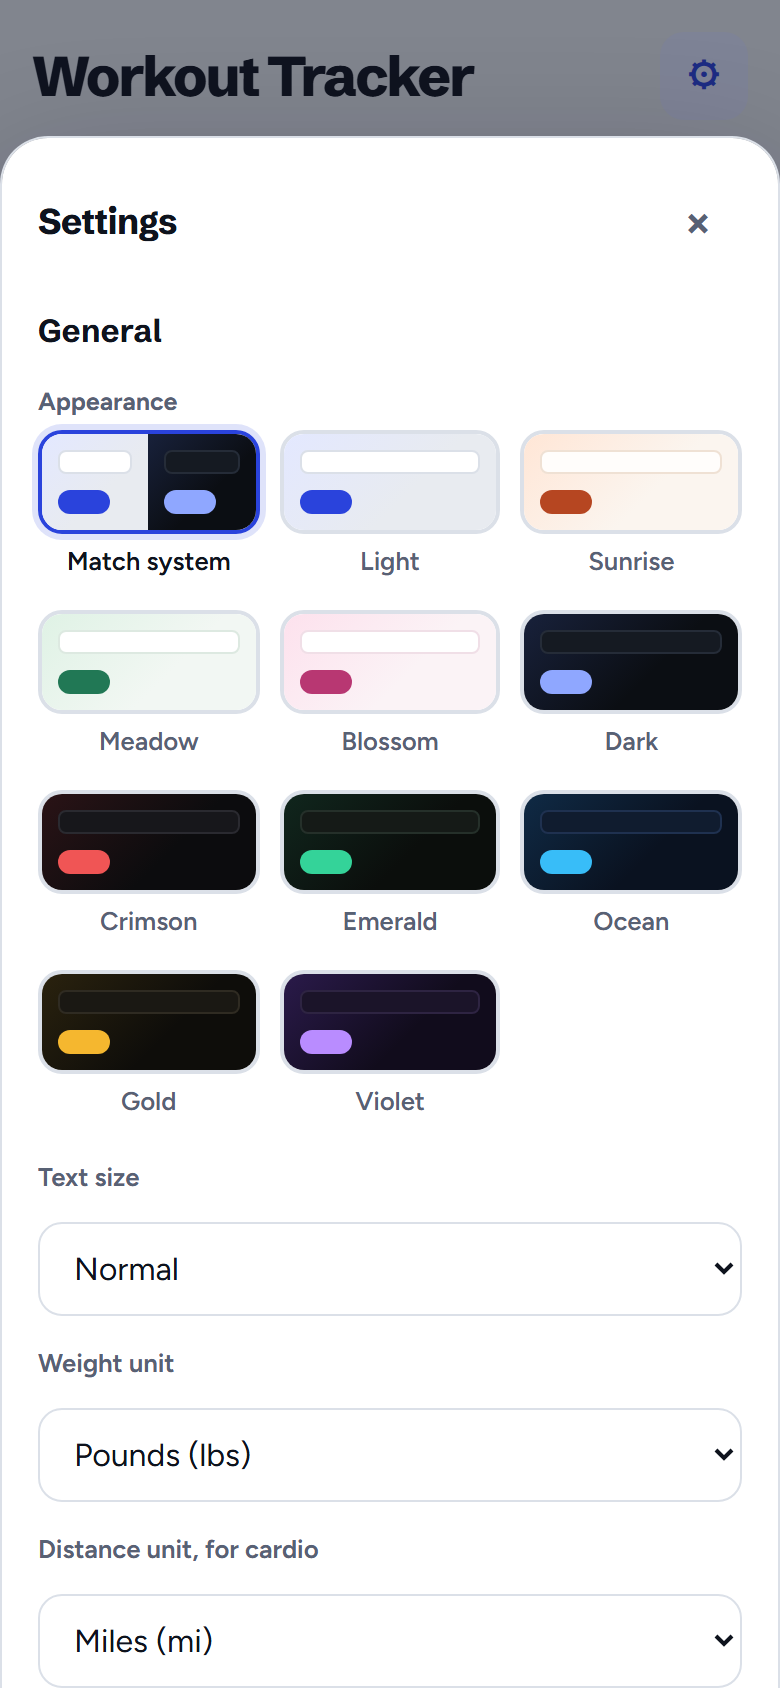
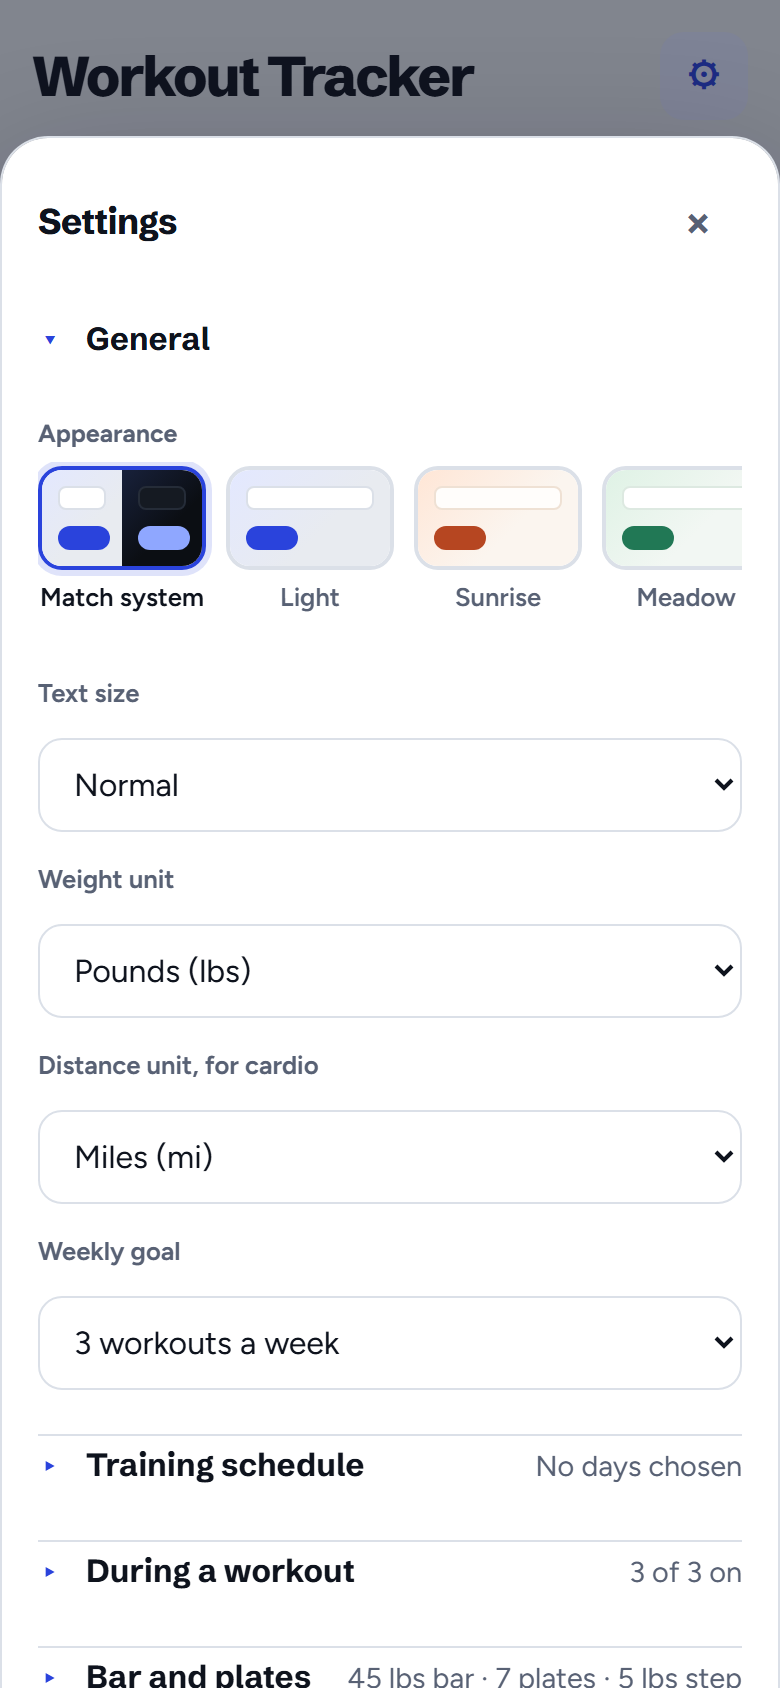
Fold Settings into sections that say their values, and put the themes in one scrolling row
Settings was one column of about 2,200 px on a phone, with what is changed mid-month (units,
the rest alert) beside what is set once (plates, the account, the data).

Each section is now a row that folds open, with its heading and at the right the values it
holds in a line ("Dark - lbs - mi - 3 a week", "Mon, Wed, Fri - 5:00 PM", "3 of 3 on", "45 lbs
bar - 7 plates - 5 lbs step", "90 s - starts itself - Double beep"), which it stops saying once
it is open. General is open with the dialog, since it holds what is changed most and is where
the focus goes; the others are folded. The lines are written from the settings each time they
are applied, by a summary on each section of the table (settings-fields.js), so a section added
to the table has its own; Your data and Account, which the dialog writes out itself, are rows
too, and opening an account panel opens the Account row.

The ten themes were four rows of a grid. They are one row that scrolls sideways, the chosen one
in view.

Tests: settings_table checks each section is a row (General open, the rest folded) and that the
lines are the settings; the Progress rows check is scoped to the page's own rows, since the
dialog's are rows too. The folds reuse Progress's (.fold-summary and the rest). Docs and the
Settings screenshot updated.

diff --git a/frontend/settings-fields.js b/frontend/settings-fields.js
@@ -73,7 +73,7 @@ const themeSwatches = Object.keys(themeNames).map(id => {
 
 const themeSetting = {
   defaults:{ theme:themeChoices.includes(legacyTheme) ? legacyTheme : 'system' },
-  html:() => `<fieldset class="theme-picker" id="themeSetting"><legend>Appearance</legend>${themeSwatches}</fieldset>`,
+  html:() => `<fieldset class="theme-picker" id="themeSetting"><legend>Appearance</legend><div class="theme-row">${themeSwatches}</div></fieldset>`,
   show(settings) {
     // theme.js, in <head>, applies it and follows the device. A page from before theme.js existed (served from the
     // cache for one load after an update) lacks it, and just gets light or dark.
@@ -134,7 +134,8 @@ function weeklyGoalFrom(value) {
 // ---- The training schedule ---------------------------------------------------------------
 
 // Training days, Monday first as the calendar has them, by the number the browser gives each (Sunday is 0).
-const trainingDayChoices = [[1, 'Mon', 'Monday'], [2, 'Tue', 'Tuesday'], [3, 'Wed', 'Wednesday'], [4, 'Thu', 'Thursday'], [5, 'Fri', 'Friday'], [6, 'Sat', 'Saturday'], [0, 'Sun', 'Sunday']]
+const trainingDays = [[1, 'Mon', 'Monday'], [2, 'Tue', 'Tuesday'], [3, 'Wed', 'Wednesday'], [4, 'Thu', 'Thursday'], [5, 'Fri', 'Friday'], [6, 'Sat', 'Saturday'], [0, 'Sun', 'Sunday']];
+const trainingDayChoices = trainingDays
   .map(([value, short, name]) => `<label class="weekday"><input type="checkbox" value="${value}" aria-label="${name}" /><span aria-hidden="true">${short}</span></label>`).join('');
 
 // The days of the week the lifter trains (as the browser numbers them, Sunday 0) and the time of day to remind them, from
@@ -242,16 +243,43 @@ const equipmentSetting = {
 // The alert sounds and their names. Each needs tones of the same name in alertTones (settings.js), which makes them.
 const alertSoundOptions = [['beep', 'Double beep'], ['chime', 'Chime'], ['long', 'Long tone']];
 
+// What each section says of itself while it is folded, in a line, from the settings it holds: the values that are set, so they are
+// read without opening it (applySettings, in settings.js, writes each one). A time is written as the device writes one.
+const clockText = time => {
+  const [hour, minute] = time.split(':').map(Number);
+  return new Date(2000, 0, 1, hour, minute).toLocaleTimeString(undefined, { hour:'numeric', minute:'2-digit' });
+};
+
 const settingSections = [
-  { title:'General', fields:[
+  // General is open when the dialog is, since it holds what is changed most and where the focus goes.
+  { id:'general', title:'General', open:true,
+    summary:settings => [
+      themeNames[themeChoices.includes(settings.theme) ? settings.theme : 'system'],
+      settings.unit === 'kg' ? 'kg' : 'lbs',
+      distanceUnitOf(settings),
+      `${weeklyGoalFrom(settings.weeklyGoal)} a week`,
+      ...(textSizeFrom(settings.textSize) === 'normal' ? [] : [`${textSizeChoices.find(([size]) => size === textSizeFrom(settings.textSize))[1]} text`])
+    ].join(' · '),
+    fields:[
     themeSetting,
     textSizeSetting,
     choiceSetting('unit', 'unitSetting', 'Weight unit', [['lbs', 'Pounds (lbs)'], ['kg', 'Kilograms (kg)']], value => value === 'kg' ? 'kg' : 'lbs', 'lbs'),
     distanceSetting,
     choiceSetting('weeklyGoal', 'weeklyGoalSetting', 'Weekly goal', [1, 2, 3, 4, 5, 6, 7].map(goal => [goal, `${goal} workout${goal === 1 ? '' : 's'} a week`]), weeklyGoalFrom, 3)
   ] },
-  { title:'Training schedule', fields:[scheduleSetting] },
-  { title:'During a workout', fields:[
+  { id:'schedule', title:'Training schedule',
+    summary:settings => {
+      const { days, time } = scheduleFrom(settings);
+      return days.length ? `${trainingDays.filter(([value]) => days.includes(value)).map(([, short]) => short).join(', ')} · ${clockText(time)}` : 'No days chosen';
+    },
+    fields:[scheduleSetting] },
+  { id:'workout', title:'During a workout',
+    // How many of the options that this browser has are on.
+    summary:settings => {
+      const keys = ['confirmEnd', 'trackEffort', 'warmupSets', ...('wakeLock' in navigator ? [] : ['keepAwakeVideo'])];
+      return `${keys.filter(key => settings[key] !== false).length} of ${keys.length} on`;
+    },
+    fields:[
     checkSetting('confirmEnd', 'confirmEndSetting', 'Ask before cancelling a workout with sets logged'),
     checkSetting('trackEffort', 'effortSetting', 'Ask how many reps each set had left (effort)'),
     checkSetting('warmupSets', 'warmupSetting', 'Suggest warm-up sets for barbell lifts'),
@@ -259,8 +287,19 @@ const settingSections = [
     checkSetting('keepAwakeVideo', 'keepAwakeSetting', 'Keep the screen on with a silent video, as this browser will not do it itself',
       { row:'keepAwakeSettingRow', available:() => !('wakeLock' in navigator) })
   ] },
-  { title:'Bar and plates', fields:[equipmentSetting] },
-  { title:'Rest timer', fields:[
+  { id:'equipment', title:'Bar and plates',
+    summary:settings => {
+      const gym = gymEquipment(settings);
+      return `${formatWeight(gym.bar)} ${gym.unit} bar · ${plural(gym.plates.length, 'plate')} · ${formatWeight(gym.step)} ${gym.unit} step`;
+    },
+    fields:[equipmentSetting] },
+  { id:'rest', title:'Rest timer',
+    summary:settings => {
+      const sound = alertSoundOptions.find(([name]) => name === settings.alertSound) || alertSoundOptions[0];
+      return [`${Number(settings.restDuration) || defaultSettings.restDuration} s`, settings.autoRest === false ? 'starts on tap' : 'starts itself',
+        settings.soundEnabled === false ? 'no sound' : sound[1]].join(' · ');
+    },
+    fields:[
     rangeSetting('restDuration', 'restDurationSetting', 'Default rest duration (seconds)', 'type="number" inputmode="numeric" min="15" max="600" step="15"',
       { least:15, most:600, blank:90, defaultValue:90 }),
     checkSetting('autoRest', 'autoRestSetting', 'Start the rest timer automatically after each set'),

diff --git a/frontend/styles.css b/frontend/styles.css
@@ -414,12 +414,13 @@ html[data-theme="dark"] .program-status.missed { color:#ff9eaa; }
 .settings-heading h2 { margin:0; }
 .modal-close { flex:none; width:44px; height:44px; padding:0; color:var(--muted); background:transparent; font-size:1.5rem; line-height:1; }
 .settings-modal form { display:grid; gap:8px; }
-.settings-modal form > label:not(.setting-check) { margin-top:8px; }
+.settings-modal .fold-body > label:not(.setting-check) { margin-top:8px; }
 /* Appearance: a swatch for each theme, its preview drawn in the theme's own colours (a data-palette of its own), the
    name in the page's. The radio itself is invisible but still takes the focus and the arrow keys. */
-.theme-picker { display:grid; grid-template-columns:repeat(auto-fill,minmax(86px,1fr)); gap:10px; margin:8px 0 0; padding:0; border:0; }
+.theme-picker { min-width:0; margin:8px 0 0; padding:0; border:0; }
+.theme-row { display:flex; gap:10px; padding:2px 2px 10px; overflow-x:auto; scroll-snap-type:x proximity; scrollbar-width:thin; }
 .theme-picker legend { margin:0 0 7px; padding:0; color:var(--muted); font-size:.78rem; font-weight:700; }
-.theme-swatch { position:relative; display:grid; gap:6px; color:var(--muted); font-size:.8rem; font-weight:600; text-align:center; cursor:pointer; }
+.theme-swatch { position:relative; display:grid; flex:0 0 84px; gap:6px; scroll-snap-align:start; color:var(--muted); font-size:.8rem; font-weight:600; text-align:center; cursor:pointer; }
 .theme-swatch input { position:absolute; width:1px; height:1px; margin:0; opacity:0; }
 .theme-preview { display:flex; height:52px; overflow:hidden; border:2px solid var(--line); border-radius:12px; }
 .theme-preview > span { position:relative; flex:1; background:linear-gradient(135deg,var(--glow),var(--bg) 60%); }
@@ -431,13 +432,18 @@ html[data-theme="dark"] .program-status.missed { color:#ff9eaa; }
 .setting-check { display:flex; align-items:flex-start; gap:9px; margin-top:12px; padding:12px 0; color:var(--muted); font-size:.9rem; line-height:1.4; }
 .setting-check input { width:auto; margin:2px 0 0; }
 input[type="range"] { padding:0; border:0; background:transparent; accent-color:var(--accent); }
-.settings-modal form > .test-alert { justify-self:start; margin-top:10px; }
+.settings-modal .fold-body > .test-alert { justify-self:start; margin-top:10px; }
 .settings-modal :disabled { opacity:.5; cursor:not-allowed; }
 .settings-actions { display:flex; justify-content:flex-end; align-items:center; gap:10px; margin-top:20px; padding-top:18px; border-top:1px solid var(--line); }
-/* Settings in sections, each under a heading with a line above it. */
-.settings-modal form > .settings-section { margin:18px 0 2px; padding-top:16px; border-top:1px solid var(--line); font-size:1rem; }
-.settings-modal form > .settings-section:first-child { margin-top:0; padding-top:0; border-top:0; }
-.settings-section + .data-section, .settings-section + .account-row { margin-top:0; padding-top:0; border-top:0; }
+/* Settings in sections that fold open, each a row with a line above it: its heading, and at the right the values it holds (what
+   the table's summary says), until it is open. General is open with the dialog; the others are folded. The fold's own rules are
+   Progress's (.fold-summary and the rest). */
+.settings-fold { border-top:1px solid var(--line); }
+.settings-fold:first-of-type { border-top:0; }
+.settings-fold > .fold-summary { padding:4px 0; }
+.settings-section { margin:0; font-size:1rem; }
+.settings-fold > .fold-body { display:grid; gap:8px; padding:2px 0 14px; }
+.settings-fold .data-section, .settings-fold .account-row { margin-top:0; padding-top:0; border-top:0; }
 .settings-saved { margin:0 auto 0 0; font-size:.85rem; }
 /* Bar and plates: the bar weight, a row of plate ticks that wraps, and the weight step. */
 .equipment-fields { display:grid; gap:8px; }

diff --git a/frontend/settings-dialog.js b/frontend/settings-dialog.js
@@ -9,9 +9,20 @@ function accountEditor(id, fields, actions, lead = '') {
   return `<div class="account-editor" id="${id}" hidden>${lead}${fields}<div class="account-editor-actions">${actions}</div></div>`;
 }
 
+// A section of the dialog: a row that folds open, its heading with where it stands in a line (the state, written by applySettings
+// in settings.js, hidden once it is open), and what is in it. The ids are settings-<id> and settings-<id>-state.
+function settingsFold(id, title, body, { open = false, state = '' } = {}) {
+  return `<details class="fold-details settings-fold" id="settings-${id}"${open ? ' open' : ''}>
+        <summary class="fold-summary"><h3 class="settings-section">${title}</h3><span class="fold-state" id="settings-${id}-state">${state}</span></summary>
+        <div class="fold-body">
+      ${body}
+        </div>
+      </details>`;
+}
+
 // The settings' controls, section by section, from the table of settings (settings-fields.js), which loads before this file.
-const settingsFieldsHtml = settingSections.map(section => `<h3 class="settings-section">${section.title}</h3>
-      ${section.fields.map(field => field.html()).join('\n      ')}${section.after ? `\n      ${section.after}` : ''}`).join('\n      ');
+const settingsFieldsHtml = settingSections.map(section => settingsFold(section.id, section.title,
+  `${section.fields.map(field => field.html()).join('\n      ')}${section.after ? `\n      ${section.after}` : ''}`, { open:section.open })).join('\n      ');
 
 document.body.insertAdjacentHTML('beforeend', `
 <div class="modal-backdrop" id="settingsModal" hidden>
@@ -22,8 +33,7 @@ document.body.insertAdjacentHTML('beforeend', `
     </div>
     <form id="settingsForm">
       ${settingsFieldsHtml}
-      <h3 class="settings-section">Your data</h3>
-      <div class="data-section">
+      ${settingsFold('data', 'Your data', `<div class="data-section">
         <div class="account-details">
           <span class="subtitle">Save every workout to a file, with your templates, program and settings, or bring in one saved from any Workout Tracker.</span>
         </div>
@@ -34,8 +44,10 @@ document.body.insertAdjacentHTML('beforeend', `
         </div>
         <input id="importFile" type="file" accept=".json,application/json" hidden />
         <p class="subtitle data-status" id="dataStatus" role="status" hidden></p>
-      </div>
-      <h3 class="settings-section">Account</h3>
+      </div>`, { state:'Export or import' })}
+      <details class="fold-details settings-fold" id="settings-account">
+        <summary class="fold-summary"><h3 class="settings-section">Account</h3><span class="fold-state" id="settings-account-state"></span></summary>
+        <div class="fold-body">
       <div class="account-row">
         <div class="account-details">
           <span class="subtitle" id="accountName"></span>
@@ -76,6 +88,8 @@ document.body.insertAdjacentHTML('beforeend', `
         + '<button class="danger" id="confirmDelete" type="submit" form="deleteForm">Delete account</button>',
         '<p class="subtitle delete-warning">This deletes your account from this server for good: every workout, template and setting in it, and your '
         + 'training program. Export first to keep a copy.</p>')}
+        </div>
+      </details>
       <div class="settings-actions">
         <p class="subtitle settings-saved" id="settingsSaved" role="status">Changes are saved as you make them.</p>
         <button class="primary" id="doneSettings" type="submit">Done</button>

diff --git a/frontend/settings.js b/frontend/settings.js
@@ -146,6 +146,8 @@ function applySettings(settings) {
   settingFields.forEach(field => field.show(settings));
   syncSoundControls();
   syncPlateControls();
+  // Each folded section says its values in a line (the table's summary), so they are read without opening it.
+  settingSections.forEach(section => { getSettingElement(`settings-${section.id}-state`).textContent = section.summary(settings); });
 }
 
 // Set by an import, whose workouts, templates and program the page then loads again to show.
@@ -184,6 +186,7 @@ function showSettingsSaved() {
 function showAccount() {
   const known = Boolean(window.localUsername);
   getSettingElement('accountName').textContent = known ? `Signed in as ${window.localUsername}` : '';
+  getSettingElement('settings-account-state').textContent = known ? window.localUsername : '';
   getSettingElement('accountEmail').textContent = window.localEmail || 'No email yet. Add one so you can reset a forgotten password.';
   getSettingElement('accountEmail').hidden = getSettingElement('changeEmailButton').hidden = getSettingElement('changePasswordButton').hidden = !known;
   getSettingElement('deleteAccountButton').hidden = !known;
@@ -373,6 +376,8 @@ function showAccountPanel(name) {
   getSettingElement('settingsModal').querySelectorAll('[aria-invalid]').forEach(field => field.removeAttribute('aria-invalid'));
   getSettingElement('accountNotice').hidden = true;
   if (!name) return;
+  // A panel is in the Account section, which is folded to start with, and the field the focus goes to would not take it there.
+  getSettingElement('settings-account').open = true;
   const panel = accountPanels[name];
   getSettingElement(panel.feedback).hidden = true;
   panel.start();

diff --git a/tests/suites/settings_table.py b/tests/suites/settings_table.py
@@ -18,10 +18,25 @@ def run(t):
 
     # ------------------------------------------------------------------ T the dialog
     print('T   the dialog is made from the table')
-    sections = ev("[...document.querySelectorAll('#settingsForm > .settings-section')].map(h => h.textContent)")
+    sections = ev("[...document.querySelectorAll('#settingsForm > .settings-fold > .fold-summary > .settings-section')].map(h => h.textContent)")
     check('its sections are the table’s, in order, then the two the dialog writes out itself',
           sections == ['General', 'Training schedule', 'During a workout', 'Bar and plates', 'Rest timer', 'Your data', 'Account'], sections)
     check('the table’s are what the code says', ev('settingSections.map(section => section.title)') == sections[:5])
+    # Each section is a row that folds open: General is open with the dialog (it is what is changed most, and where the focus goes),
+    # and each says in a line what it holds, from the table's summary.
+    folds = ev("[...document.querySelectorAll('#settingsForm > .settings-fold')].map(d => [d.id, d.open, d.querySelector('.fold-state').textContent])")
+    check('each section is a row that folds, General open and the rest folded, each saying what it holds',
+          [f[0] for f in folds] == ['settings-general', 'settings-schedule', 'settings-workout', 'settings-equipment', 'settings-rest', 'settings-data', 'settings-account']
+          and [f[1] for f in folds] == [True] + [False] * 6 and all(f[2] for f in folds[:6]), folds)
+    check('and every section of the table has an id and a summary', ev("settingSections.every(s => typeof s.id === 'string' && typeof s.summary === 'function')") is True)
+    states = ev("""(() => { applySettings({ ...defaultSettings, theme: 'ocean', unit: 'kg', distanceUnit: 'km', weeklyGoal: 5, textSize: 'large',
+        schedule: { days: [4, 1], time: '07:45' }, confirmEnd: false, restDuration: 120, soundEnabled: false });
+      return Object.fromEntries(settingSections.map(s => [s.id, document.getElementById('settings-' + s.id + '-state').textContent])); })()""")
+    check('the lines are the settings: the theme, units and goal; the days; the options on; the bar; the rest',
+          states['general'] == 'Ocean · kg · km · 5 a week · Large text' and states['schedule'].startswith('Mon, Thu · ')
+          and states['workout'].startswith('2 of ') and states['equipment'] == '20 kg bar · 7 plates · 2.5 kg step'
+          and states['rest'] == '120 s · starts itself · no sound', states)
+    ev("applySettings(defaultSettings)")
     ids = ev("[...document.querySelectorAll('[id]')].map(el => el.id)")
     check('no id is used twice on the page', len(ids) == len(set(ids)), sorted({i for i in ids if ids.count(i) > 1}))
     check('every control the table makes is in the dialog', ev("""settingFields.every(field => { const holder = document.createElement('div'); holder.innerHTML = field.html();

diff --git a/tests/suites/pages.py b/tests/suites/pages.py
@@ -904,7 +904,7 @@ def run(t):
     check('pressing a month heading opens it, and it stays open when the list is drawn again', opened[1] is True and kept == opened, [opened, kept])
 
     # Under it, six rows folded to start with, each saying in a line where it stands.
-    folds = cdp.ev("""[...document.querySelectorAll('.fold-details')].map(d => [d.id, d.open, d.querySelector('.fold-state').textContent])""")
+    folds = cdp.ev("""[...document.querySelectorAll('main .fold-details')].map(d => [d.id, d.open, d.querySelector('.fold-state').textContent])""")
     check('Sets per muscle, Bodyweight, Goals, Stalled lifts, Personal records and Exercises are rows, folded',
           [f[0] for f in folds] == ['musclesFold', 'bodyweightFold', 'goalsFold', 'stallsFold', 'recordsFold', 'exercisesFold']
           and not any(f[1] for f in folds), folds)

diff --git a/readme-for-llm.md b/readme-for-llm.md
@@ -703,12 +703,18 @@ Progress beside them. The Strength tab is the Tracker, which keeps to strength w
 ### Settings
 
 The gear button opens a settings modal available on every page, in sections: General, Training schedule, During a
-workout, Bar and plates, Rest timer, Your data and Account. Each change is saved as you make it, so there is no Save
-button, just Done; closing it any other way (the ×, Escape, or a tap outside) keeps your changes too.
+workout, Bar and plates, Rest timer, Your data and Account. Each section is a row that folds open, and says in a line
+what it holds ("Dark · lbs · mi · 3 a week", "Mon, Wed, Fri · 5:00 PM", "3 of 3 on", "45 lbs bar · 7 plates · 5 lbs
+step", "90 s · starts itself · Double beep"), until it is open. General is open with the dialog, since it holds what is
+changed most and the keyboard focus goes to it; the rest are folded. The line of each is written from the settings by its
+`summary` in the table (`settings-fields.js`), so a section added to the table has its own. Each change is saved as you
+make it, so there is no Save button, just Done; closing it any other way (the ×, Escape, or a tap outside) keeps your
+changes too.
 Closing it puts the keyboard focus back on the gear button, as the template and program editors do on
 the button that opened them. Settings include:
 
-- Appearance: a swatch for each colour theme, previewed in its own colours. Match system (the default) is Light
+- Appearance: a swatch for each colour theme, previewed in its own colours, in one row that scrolls sideways (the
+  chosen one is in view). Match system (the default) is Light
   or Dark as the device's own mode is, and follows it when it changes while the app is open. Besides Light and
   Dark there are three more light themes, Sunrise (coral on cream), Meadow (green) and Blossom (rose), and five
   dark ones, Crimson (red on black), Emerald (green on black), Ocean (sky blue on navy), Gold (amber on black)
